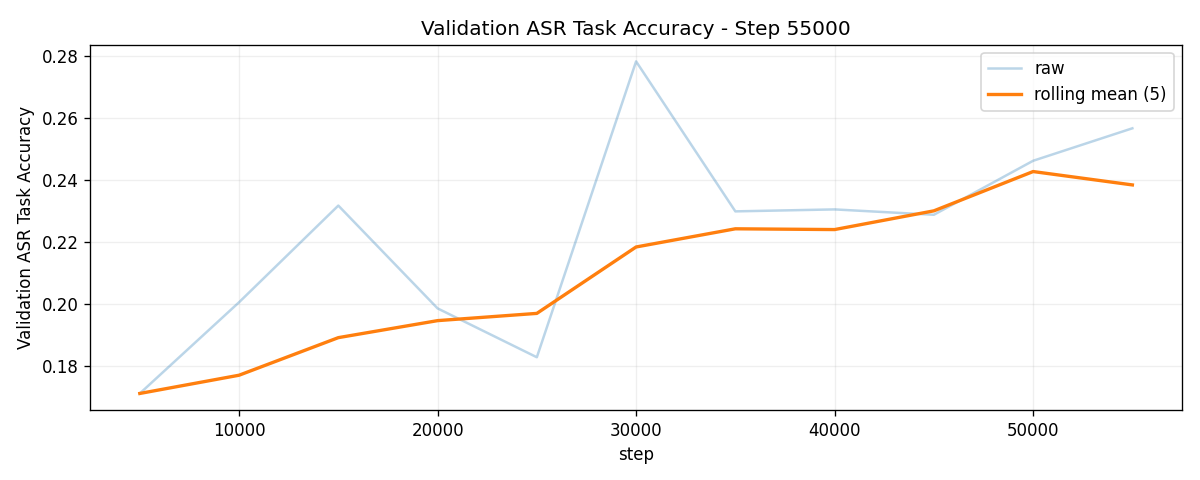
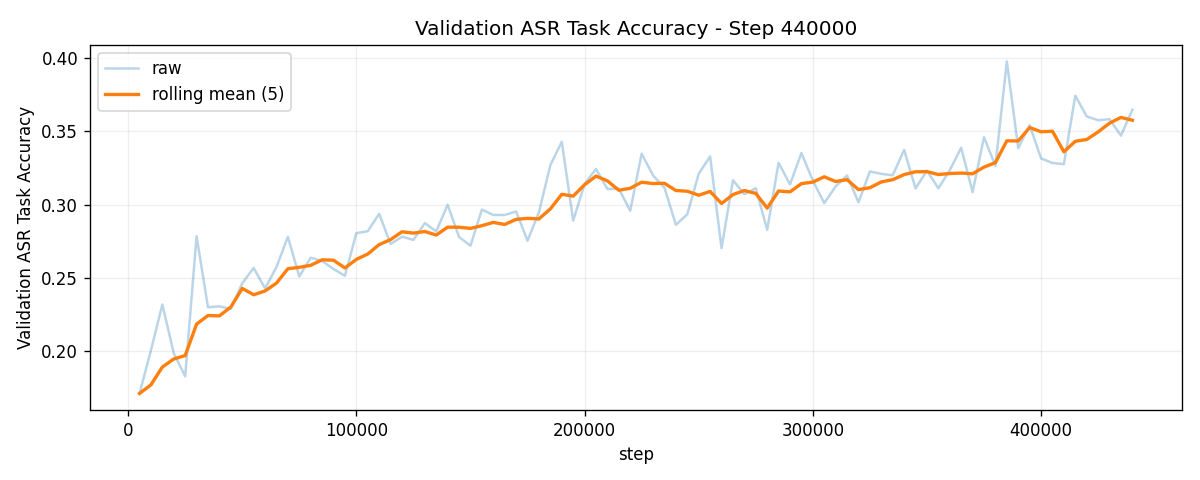
Update eval metrics and checkpoint sync

diff --git a/train.py b/train.py
@@ -18,6 +18,7 @@ import shutil
 import subprocess
 import sys
 import tarfile
+import tempfile
 import threading
 import time
 import urllib.error
@@ -5921,7 +5922,7 @@ def prune_gcs_backups(root: Path) -> None:
         shutil.rmtree(path, ignore_errors=True)
 
 
-def parse_gcs_backup_target(step: int) -> tuple[str, str]:
+def parse_gcs_backup_base() -> tuple[str, str]:
     raw = (config.gcs_backup_dir or "").strip()
     if not raw:
         raw = os.environ.get("GCS_BACKUP_DIR", "").strip()
@@ -5941,17 +5942,24 @@ def parse_gcs_backup_target(step: int) -> tuple[str, str]:
         raw = f"gs://{bucket}/{TRAINING_RUN_NAME}"
 
     if raw.startswith("/gcs/"):
-        return "", str(Path(raw) / f"sync_step_{step}")
+        return "", str(Path(raw))
 
     if not raw.startswith("gs://"):
-        return "", str(Path(raw) / f"sync_step_{step}")
+        return "", str(Path(raw))
 
     without_scheme = raw[len("gs://") :].strip("/")
     bucket, _, prefix = without_scheme.partition("/")
     target = f"gs://{bucket}"
     if prefix:
         target = f"{target}/{prefix.strip('/')}"
-    return bucket, f"{target}/sync_step_{step}"
+    return bucket, target
+
+
+def parse_gcs_backup_target(step: int) -> tuple[str, str]:
+    bucket, base_target = parse_gcs_backup_base()
+    if base_target.startswith("gs://"):
+        return bucket, f"{base_target.rstrip('/')}/sync_step_{step}"
+    return bucket, str(Path(base_target) / f"sync_step_{step}")
 
 
 def create_gcs_bucket_if_needed(bucket: str) -> None:
@@ -5987,20 +5995,82 @@ def create_gcs_bucket_if_needed(bucket: str) -> None:
         log_info(f"[GCS] Bucket create skipped/failed for gs://{bucket}: {stderr.strip()}")
 
 
-def gcs_rsync_command(source: Path, target: str) -> list[str]:
+def gcs_rsync_command(source: Path, target: str, *, delete: bool = True) -> list[str]:
     exclude = r"(^|/)(\.venv|__pycache__|\.git)(/|$)|(^|/)outputs/cache(/|$)"
     gsutil = shutil.which("gsutil")
     if gsutil:
         probe = subprocess.run([gsutil, "version", "-l"], text=True, capture_output=True)
         if probe.returncode == 0:
-            return [gsutil, "-m", "rsync", "-r", "-x", exclude, str(source), target]
+            cmd = [gsutil, "-m", "rsync"]
+            if delete:
+                cmd.append("-d")
+            return [*cmd, "-r", "-x", exclude, str(source), target]
         log_info(f"[GCS] gsutil unavailable, falling back to gcloud storage: {((probe.stderr or '') + (probe.stdout or '')).strip()[:500]}")
 
     gcloud = shutil.which("gcloud")
     if gcloud:
-        return [gcloud, "storage", "rsync", str(source), target, "--recursive", "--exclude", exclude]
+        cmd = [gcloud, "storage", "rsync", str(source), target, "--recursive", "--exclude", exclude]
+        if delete:
+            cmd.append("--delete-unmatched-destination-objects")
+        return cmd
 
     raise RuntimeError("gsutil or gcloud is required for gs:// backup targets")
+
+
+def backup_child_target(target: str, child: str) -> str:
+    child_clean = child.strip("/")
+    if target.startswith("gs://"):
+        return f"{target.rstrip('/')}/{child_clean}"
+    return str(Path(target) / child_clean)
+
+
+def sync_backup_dir(source: Path, target: str, bucket: str) -> None:
+    if target.startswith("gs://"):
+        create_gcs_bucket_if_needed(bucket)
+        cmd = gcs_rsync_command(source, target)
+        subprocess.run(cmd, check=True)
+    else:
+        copytree_replace(source, Path(target))
+
+
+def sync_backup_file(source: Path, target: str, bucket: str) -> None:
+    if target.startswith("gs://"):
+        create_gcs_bucket_if_needed(bucket)
+        gcloud = shutil.which("gcloud")
+        if gcloud:
+            subprocess.run([gcloud, "storage", "cp", str(source), target], check=True)
+            return
+        gsutil = shutil.which("gsutil")
+        if gsutil:
+            subprocess.run([gsutil, "cp", str(source), target], check=True)
+            return
+        raise RuntimeError("gsutil or gcloud is required for gs:// backup targets")
+
+    dst = Path(target)
+    dst.parent.mkdir(parents=True, exist_ok=True)
+    shutil.copy2(source, dst)
+
+
+def sync_checkpoint_to_gcs(step: int, step_dir: Path) -> None:
+    bucket, base_target = parse_gcs_backup_base()
+    checkpoint_dir = step_dir.resolve() / "checkpoint"
+    if not checkpoint_dir.is_dir():
+        log_info(f"[GCS] Checkpoint source missing, skipped: {checkpoint_dir}")
+        return
+
+    versioned_target = backup_child_target(parse_gcs_backup_target(step)[1], "checkpoint")
+    latest_target = backup_child_target(base_target, "latest_checkpoint")
+    log_info(f"[GCS] Syncing checkpoint for step {step} to {versioned_target} ...")
+    sync_backup_dir(checkpoint_dir, versioned_target, bucket)
+    log_info(f"[GCS] Syncing latest checkpoint pointer to {latest_target} ...")
+    sync_backup_dir(checkpoint_dir, latest_target, bucket)
+
+    with tempfile.TemporaryDirectory(prefix="propagator-latest-checkpoint-") as tmp:
+        marker = Path(tmp) / "latest_checkpoint_step.txt"
+        marker.write_text(f"{step}\n", encoding="utf-8")
+        sync_backup_file(marker, backup_child_target(base_target, "latest_checkpoint_step.txt"), bucket)
+
+    log_info(f"[GCS] Checkpoint backup complete for step {step}")
 
 
 def start_gcs_backup(step: int, source_dir: Path) -> None:
@@ -6008,14 +6078,18 @@ def start_gcs_backup(step: int, source_dir: Path) -> None:
         try:
             bucket, target = parse_gcs_backup_target(step)
             project_dir = Path(__file__).resolve().parent
-            log_info(f"[GCS] Syncing project folder to {target} ...")
+            source_dir_resolved = source_dir.resolve()
+            project_target = backup_child_target(target, "project")
+            output_target = backup_child_target(target, "output")
+            log_info(f"[GCS] Syncing project folder to {project_target} ...")
 
-            if target.startswith("gs://"):
-                create_gcs_bucket_if_needed(bucket)
-                cmd = gcs_rsync_command(project_dir, target)
-                subprocess.run(cmd, check=True)
+            sync_backup_dir(project_dir, project_target, bucket)
+
+            if source_dir_resolved.exists():
+                log_info(f"[GCS] Syncing training output to {output_target} ...")
+                sync_backup_dir(source_dir_resolved, output_target, bucket)
             else:
-                copytree_replace(project_dir, Path(target))
+                log_info(f"[GCS] Training output source missing, skipped: {source_dir_resolved}")
 
             log_info(f"[GCS] Backup complete for step {step} to {target}")
         except Exception as exc:
@@ -6408,7 +6482,17 @@ def main() -> None:
         if act_step % config.checkpoint_every == 0 or act_step == total_steps:
             ckpt_dir = output_root / f"step_{act_step}"
             save_checkpoint(checkpointer, model, optimizer, ckpt_dir)
-            prune_local_checkpoint_dirs(output_root)
+            checkpoint_backup_ok = True
+            if config.gcs_sync_every > 0:
+                try:
+                    sync_checkpoint_to_gcs(act_step, ckpt_dir)
+                except Exception as exc:
+                    checkpoint_backup_ok = False
+                    log_info(f"[GCS] Checkpoint backup failed for step {act_step}: {exc}")
+            if checkpoint_backup_ok:
+                prune_local_checkpoint_dirs(output_root)
+            else:
+                log_info("[Checkpoint] Local checkpoint pruning skipped because GCS checkpoint backup failed")
 
         if config.gcs_sync_every > 0 and act_step % config.gcs_sync_every == 0:
             start_gcs_backup(act_step, output_root / f"step_{act_step}")

diff --git a/README.md b/README.md
@@ -21,7 +21,7 @@ The current experimental run is a multimodal duplex model trained on text dialog
 
 ## Current Snapshot
 
-Latest completed evaluation: step 55,000 from `outputs/propagator-multimodal-v2`.
+Latest completed evaluation: step 440,000 from `outputs/propagator-multimodal-v2`.
 
 | Item | Value |
 | :--- | :--- |
@@ -270,20 +270,20 @@ The reported CE is a weighted multimodal objective, not a plain text perplexity.
 | :---: | :---: |
 | ![Train Loss](assets/train_loss.png) | ![Validation Loss](assets/val_loss.png) |
 
-Latest completed eval at step 55,000:
+Latest completed eval at step 440,000:
 
 | Metric | Value |
 | :--- | ---: |
-| Train weighted CE | 53.15 |
-| Validation weighted CE | 68.79 |
-| Best validation weighted CE so far | 65.84 at step 50,000 |
-| Decision accuracy | 94.51% |
-| Listen accuracy | 94.68% |
-| User-end accuracy | 72.66% |
-| Model-end accuracy | 72.73% |
-| Text token accuracy | 31.82% |
-| Audio token accuracy | 37.25% |
-| Audio codebook exact accuracy | 2.15% |
+| Train weighted CE | 34.74 |
+| Validation weighted CE | 52.75 |
+| Best validation weighted CE so far | 44.26 at step 335,000 |
+| Decision accuracy | 98.82% |
+| Listen accuracy | 99.10% |
+| User-end accuracy | 63.57% |
+| Model-end accuracy | 63.89% |
+| Text token accuracy | 39.62% |
+| Audio token accuracy | 35.51% |
+| Audio codebook exact accuracy | 1.93% |
 
 ### Protocol and Modality
 
@@ -305,7 +305,7 @@ Latest completed eval at step 55,000:
 
 ## Output Examples
 
-These examples are from the step 55,000 runtime loop. They show protocol control behavior rather than finished assistant quality.
+These examples are from the step 440,000 runtime loop. They show protocol control behavior rather than finished assistant quality.
 
 ### Identity Prompt
 
